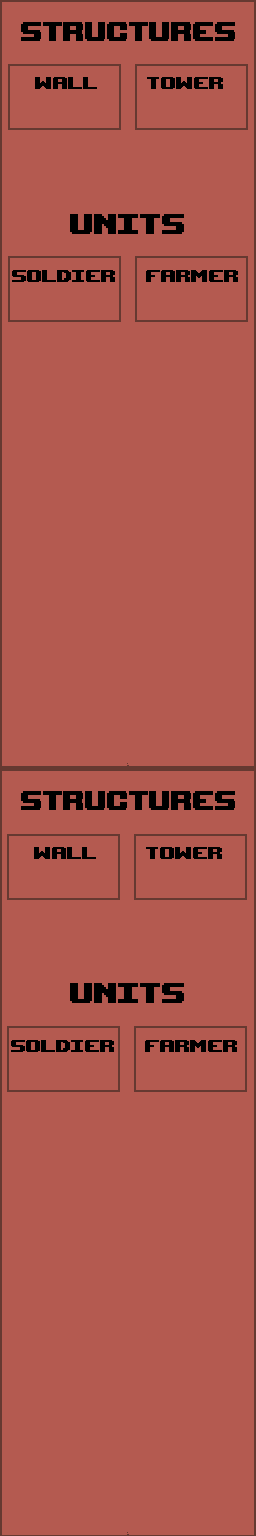
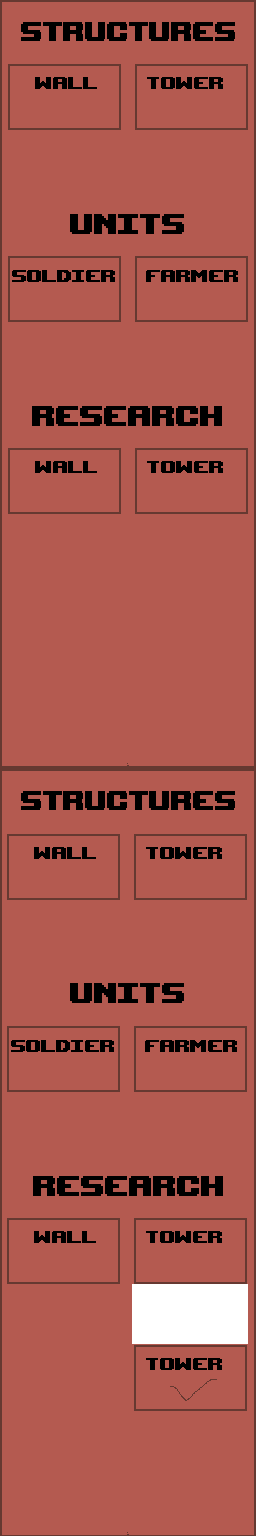
latest changes. added upgrades. started looking at animations

diff --git a/src/scenes/Level.js b/src/scenes/Level.js
@@ -1,9 +1,11 @@
 import {Physics, Scene} from 'phaser';
 
+import makeAnimations from '../animations';
+
 import {
   tilesetName, ditchFrame, towerFrame, wallFrame, tileWidth, tileHeight,
   structureAssembleRate, gameHeight, gameWidth, woodRequiredForUnit,
-  woodRequiredForStructure, initialWood,
+  woodRequiredForStructure, woodRequiredForUpgrade, initialWood,
 } from '../settings';
 import {randElement, requireNamedValue, tilePositionOfPixels} from '../util';
 import {
@@ -75,6 +77,7 @@ export class Level extends Phaser.Scene {
   }
 
   create() {
+    makeAnimations(this);
     this.state = 1; // state is the current "wave"/event
     this.step = 1; // step is just a counter incremented by update. states are triggered by step numbers
     this.gameover = false;
@@ -189,18 +192,18 @@ export class Level extends Phaser.Scene {
           sprite.on('destroy', function() { this.hasWallHouse=false; }, this);        
           break;
         case "TownHall":
-        sprite.body.setOffset(0,32);
-        sprite.body.setSize(190,128,false);
-        this.townhall=sprite;
-        this.townhall.on('destroy', this.endGame, this);
-        let townHallTop1 = this.add.sprite(b.x + this.mapOffsetX + 2 * tileWidth,
-        b.y + this.mapOffsetY - 2 * tileHeight-64, 'tileset');
-        townHallTop1.setFrame(110);
-        townHallTop1.setDepth(98);
-        let townHallTop2 = this.add.sprite(b.x + 32 + this.mapOffsetX + 2 * tileWidth,
-        b.y + this.mapOffsetY - 2 * tileHeight-64, 'tileset');
-        townHallTop2.setFrame(111);
-        townHallTop2.setDepth(98);
+          sprite.body.setOffset(0,32);
+          sprite.body.setSize(190,128,false);
+          this.townhall=sprite;
+          this.townhall.on('destroy', this.endGame, this);
+          let townHallTop1 = this.add.sprite(b.x + this.mapOffsetX + 2 * tileWidth,
+          b.y + this.mapOffsetY - 2 * tileHeight-64, 'tileset');
+          townHallTop1.setFrame(110);
+          townHallTop1.setDepth(98);
+          let townHallTop2 = this.add.sprite(b.x + 32 + this.mapOffsetX + 2 * tileWidth,
+          b.y + this.mapOffsetY - 2 * tileHeight-64, 'tileset');
+          townHallTop2.setFrame(111);
+          townHallTop2.setDepth(98);
         
        }
       //sprite.body.immovable = true;
@@ -253,7 +256,7 @@ export class Level extends Phaser.Scene {
     this.input.mouse.disableContextMenu();
 
     let ui_img = this.add.image(128, 768, 'ui-img');
-    ui_img.setDepth(11);
+    ui_img.setDepth(11); // TODO - change, and change the buttons etc
 //    ui_img.displayHeight = 768;
 
     this.buttons = {
@@ -286,6 +289,17 @@ export class Level extends Phaser.Scene {
         this.enterPlacementMode(structureId);
       }, this);
     }    
+
+    this.hasUpgrade = {};
+
+    for (const upgradeId of ['upgrade_wall', 'upgrade_tower']) {
+      const button = this.buttons[upgradeId];
+      this.hasUpgrade[upgradeId] = false;
+      button.setDepth(12);
+      button.on('pointerdown', function() {
+        this.attemptUpgrade(upgradeId);
+      }, this);
+    }     
     this.buttons.soldier.on('pointerdown', () => { 
       this.cancelAllModes();
       this.spawnSoldier(); 
@@ -325,6 +339,17 @@ export class Level extends Phaser.Scene {
     farmer_cost_img.setDepth(12);
     let farmer_cost_label = this.add.text(198, 290, '' + woodRequiredForUnit["Colonist"], { fontSize: '24px', fill: '#111' });
     farmer_cost_label.setDepth(12);
+
+    let wall_upgrade_cost_img = this.add.image(40, 494, 'tileset');
+    wall_upgrade_cost_img.setFrame(69);
+    wall_upgrade_cost_img.setDepth(12);
+    let wall_upgrade_cost_label = this.add.text(60, 482, '' + woodRequiredForUpgrade["upgrade_wall"], { fontSize: '24px', fill: '#111' });
+    wall_upgrade_cost_label.setDepth(12);
+    let tower_upgrade_cost_img = this.add.image(168, 494, 'tileset');
+    tower_upgrade_cost_img.setFrame(69);
+    tower_upgrade_cost_img.setDepth(12);
+    let tower_upgrade_cost_label = this.add.text(188, 482, '' + woodRequiredForUpgrade["upgrade_tower"], { fontSize: '24px', fill: '#111' });
+    tower_upgrade_cost_label.setDepth(12);
 
     this.towerPlacementPointer = this.add.sprite(-128, -108, 'tower');
     placementModeInfo.tower.sprite = this.towerPlacementPointer;
@@ -404,6 +429,42 @@ export class Level extends Phaser.Scene {
       this.orderingUnit = null;
       this.input.off('pointerdown', this.onUnitOrderClick, this);
     }
+  }
+
+  attemptUpgrade(id) {
+    this.cancelAllModes();
+
+    const woodRequired = woodRequiredForUpgrade[id];
+    if(this.hasUpgrade[id]) {
+      // TODO: add text object explaining.
+      console.log("You have already researched this upgrade!");
+      return false;
+    }
+    if(id=="upgrade_wall" && !this.hasWallHouse) {
+      // TODO: add text object explaining.
+      console.log("Can't research wall upgrade without a wall workshop!");
+      return false;
+    }
+    if(id=="upgrade_tower" && !this.hasTowerHouse) {
+      // TODO: add text object explaining.
+      console.log("Can't research tower upgrade without a tower workshop!");
+      return false;
+    }
+    if (this.wood < woodRequired) {
+      // TODO: add text object explaining.
+      console.log('Insufficient wood for', id);
+      return false;
+    }
+    this.wood -= woodRequired;
+    this.hasUpgrade[id]=true;
+    switch(id) {
+      case "upgrade_wall":
+        this.buttons[id].setFrame(43);
+        this.buttons
+    }
+    this.buttons[id].setFrame(43);
+    this.buttons[id].removeAllListeners("pointerdown");
+    this.buttons[id].removeAllListeners("pointerup");
   }
 
   enterPlacementMode(id) {

diff --git a/src/sprites/Building.js b/src/sprites/Building.js
@@ -38,6 +38,8 @@ export class Building extends Phaser.Physics.Arcade.Sprite { // TODO what?
 //    this.healthBar.fillStyle(0x999999, 1);
 //  this.healthBar.fillRect(300, 150, 100, 100);
     this.healthBar.lastHealth = this.health;
+    this.healthBar.setDepth(9);
+
     this.on('destroy', () => { this.healthBar.destroy(); });
     this.updateHealthBar(true);
         this.once = true;
@@ -59,38 +61,7 @@ export class Building extends Phaser.Physics.Arcade.Sprite { // TODO what?
    * existing target if none given.
    */
   approachTarget(target) {
-    if (target) {
-      this.target = target;
-    }
-    this.body.setVelocity(0,0);
-
-    const signX = Math.sign(this.target.x - this.x);
-    const signY = Math.sign(this.target.y - this.y);
-
-//    let collision = this.level.physics.world.collide(
-  //        this,
-    //      this.level.groups.actors);
-//    console.log(this.body.wasTouching.down || this.body.touching.down);
-console.log(signX + " / " + signY + " : " + this.body.touching.left);
-    if (!(this.body.wasTouching.down || this.body.touching.down) && signY>0) {
-      this.body.velocity.y = this.speed * signY;
-    }
-    if (!(this.body.wasTouching.up || this.body.touching.up) && signY<0) {
-      this.body.velocity.y = this.speed * signY;
-    }
-    if (!(this.body.wasTouching.left || this.body.touching.left) && signX<0) {
-      this.body.velocity.x = this.speed * signX;
-    }
-    if (!(this.body.wasTouching.left || this.body.touching.right) && signX>0) {
-      this.body.velocity.x = this.speed * signX;
-    }
-    if (false) {
-    this.body.setVelocity(
-      Math.floor(this.speed * signX),
-      Math.floor(this.speed * signY));
-  }
-    this.mode = modeMoving;
-    this.once = false;
+    
   }
 
   stop() {
@@ -119,6 +90,8 @@ console.log(signX + " / " + signY + " : " + this.body.touching.left);
     }
   }
 
+
+// TODO : do we need this?
   /**
    * Attack a building
    */
@@ -149,7 +122,7 @@ console.log(signX + " / " + signY + " : " + this.body.touching.left);
       }
     }
     if (this.health<1) {
-      this.destroy();
+      this.kill();
     }
   }
 
@@ -163,10 +136,8 @@ console.log(signX + " / " + signY + " : " + this.body.touching.left);
     const ratio = this.health / this.maxHealth;
     const colour = healthBarColour(ratio);
     this.healthBar.fillStyle(0x000000, 1);
-    this.healthBar.fillRect(
-      -1, -1, this.width+2, 7);
+    this.healthBar.fillRect(-1, -1, this.width+2, 7);
     this.healthBar.fillStyle(0x008800, 1);
-    this.healthBar.fillRect(
-      0, 0, Math.floor(this.width * ratio), 5);
+    this.healthBar.fillRect(0, 0, Math.floor(this.width * ratio), 5);
   }
 }

diff --git a/src/sprites/AnyAttacker.js b/src/sprites/AnyAttacker.js
@@ -44,6 +44,9 @@ export class AnyAttacker extends Phaser.Physics.Arcade.Sprite {
 //  this.healthBar.fillRect(300, 150, 100, 100);
     this.healthBar.lastHealth = this.health;
     this.healthBar.setDepth(9);
+    if (this.constructor.name=="Creep") {
+//huh
+    }
     this.on('destroy', () => { 
       this.healthBar.destroy();
       console.log("something died:" + this.constructor.name);
@@ -76,6 +79,9 @@ export class AnyAttacker extends Phaser.Physics.Arcade.Sprite {
   resizeAndSetOrgTarget() {
     this.orgTarget = this.target;
     this.setSize(this.properties.width, this.properties.height);
+    if (this.constructor.name=="Flower") {
+      this.setOffset(20,24);
+    }
   }
 
   /**
@@ -139,6 +145,10 @@ export class AnyAttacker extends Phaser.Physics.Arcade.Sprite {
     }
 
     // TODO: play an animation.
+    if(this.constructor.name==="Flower") {//} and solider /// attack=1 because soliders hate weeding
+        this.play('flower_attack_right');
+    }
+
     const dist = distance(this.x, this.y, this.target.x, this.target.y);
     if (this.level.step%50==0) { //|| dist < this.attackRadius) {
       if(this.target.constructor.name==="Creep") {//} and solider /// attack=1 because soliders hate weeding

diff --git a/src/scenes/Boot.js b/src/scenes/Boot.js
@@ -4,6 +4,7 @@ import {
   tilesetName, twigProperties, flowerProperties, colonistProperties,
   soldierProperties,
 } from '../settings';
+
 import level0Tilemap from '../tilemaps/Level0.json';
 
 
@@ -76,6 +77,14 @@ export class Boot extends Scene {
     this.load.audio("intro-theme", ["/assets/sfx/intro-theme.ogg"]);
     this.load.audio("main-theme", ["/assets/sfx/main-theme.ogg"]);
     this.load.audio("main-theme-dramatic", ["/assets/sfx/main-theme-dramatic.ogg"]);
+
+    this.anims.create({
+      key: 'flower_attack_right',
+      frames: this.anims.generateFrameNumbers('flower-monster', { start: 60, end: 79 }),
+      frameRate: 10,
+      repeat: -1
+    });
+
 
     this.load.on('complete', () => {
       console.log('Loaded');

diff --git a/src/settings.js b/src/settings.js
@@ -64,8 +64,8 @@ export const flowerProperties = {
   tileset: 'flower-monster',
   frame: 0,
   isFriendly: false,
-  height: 60,
-  width: 40,
+  height: 40,
+  width: 26,
   woodOnDeath: 100.
 };
 export const soldierProperties = {
@@ -170,6 +170,11 @@ export const woodRequiredForStructure = {
   wall: 10,
 };
 
+export const woodRequiredForUpgrade = {
+  upgrade_tower: 500,
+  upgrade_wall: 200,
+};
+
 // obsolete:
 /*
 export const woodGainedFromKilling = {
@@ -180,4 +185,4 @@ export const woodGainedFromKilling = {
 */
 
 /** The initial wood in the player's stockpile. */
-export const initialWood = 100;
+export const initialWood = 600;

diff --git a/src/sprites/Flower.js b/src/sprites/Flower.js
@@ -5,5 +5,7 @@ import {Invader} from './Invader';
 export class Flower extends Invader {
   constructor(level, x, y, target) {
     super(level, x, y, Object.assign({target}, flowerProperties));
+//	this.setOffset(0,24);
+//	this.body.setSize(,128,false);
   }
 }

diff --git a/src/sprites/Creep.js b/src/sprites/Creep.js
@@ -6,6 +6,7 @@ export class Creep extends Invader {
   constructor(level, x, y, frame, anim, target) {
     super(level, x, y, creepProperties);
     this.setFrame(frame);
-    
+    this.healthBar.setDepth(51);
+
   }
 }
